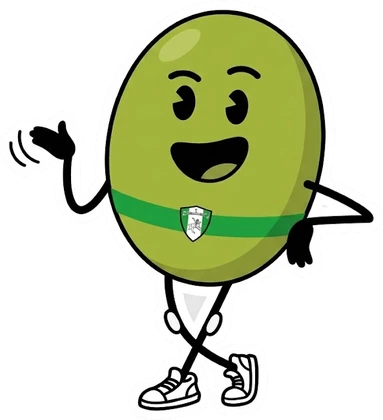
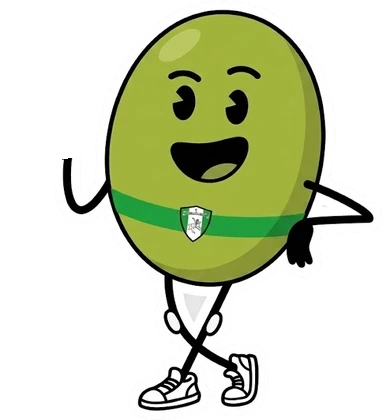
Mascota de «¡Apúntate!» desde Inscripciones y saludo animado; J5 masculina
- La mascota del botón aparece al llegar a «Inscripciones abiertas».
- La mano va en una capa aparte (assets/mascota-mano.webp) y hace un gesto
  de saludo/invitación cada pocos segundos (sin animación si el sistema
  pide reducir movimiento).
- J5 en Vigo: derrota 2-3.

Changed region(s): [[0.0, 0.2786, 0.201, 0.4024]]

diff --git a/index.html b/index.html
@@ -341,9 +341,14 @@ body{margin:0;background:#fff}
 .cva .fab{position:fixed;right:1.1rem;bottom:1.1rem;z-index:70;display:flex;align-items:center;gap:.6rem;flex-direction:row-reverse;transition:transform .25s}
 .cva .fab:hover{transform:translateY(-3px)}
 /* Mascota apoyada en «¡Apúntate!»: aparece al pasar la portada */
-.cva .masc-fab{position:absolute;right:calc(100% - 22px);bottom:-6px;width:auto;height:150px;max-width:none;pointer-events:none;
+.cva .masc-fab{position:absolute;right:calc(100% - 22px);bottom:-6px;height:150px;aspect-ratio:383/420;pointer-events:none;
   opacity:0;transform:translateY(24px);transition:opacity .45s ease,transform .45s cubic-bezier(.2,.8,.2,1);filter:drop-shadow(0 6px 10px rgba(0,0,0,.18))}
-.cva.past-hero .masc-fab{opacity:1;transform:none}
+.cva .masc-fab img{position:absolute;inset:0;width:100%;height:100%;max-width:none}
+.cva .masc-fab .mano{transform-origin:17.75% 38.6%}
+.cva.ver-masc .masc-fab{opacity:1;transform:none}
+.cva.ver-masc .masc-fab .mano{animation:saludo 3.2s ease-in-out .6s infinite}
+@keyframes saludo{0%,55%,100%{transform:rotate(0)}8%{transform:rotate(-16deg)}16%{transform:rotate(12deg)}24%{transform:rotate(-16deg)}32%{transform:rotate(12deg)}42%{transform:rotate(-6deg)}}
+@media(prefers-reduced-motion:reduce){.cva.ver-masc .masc-fab .mano{animation:none}}
 .cva .fab .lg{width:68px;height:68px;border-radius:50%;background:#fff;box-shadow:0 6px 22px rgba(0,0,0,.25);border:2px solid var(--green);display:grid;place-items:center;overflow:hidden;animation:bob 2.4s ease-in-out infinite}
 .cva .fab .lg img{width:100%;height:100%;object-fit:contain;padding:5px}
 .cva .fab .tx{background:var(--green);color:#fff;font-weight:800;font-size:1.1rem;padding:.7rem 1.2rem;border-radius:999px;box-shadow:0 6px 22px rgba(0,0,0,.22);transition:background .2s}
@@ -404,7 +409,7 @@ body{margin:0;background:#fff}
 <a href="#unete" class="fab" aria-label="Apúntate: ir a inscripción">
   <span class="lg"><img src="assets/escudo.png" alt=""></span>
   <span class="tx">¡Apúntate!</span>
-  <img class="masc-fab" src="assets/mascota-apuntate.webp" alt="" aria-hidden="true" width="383" height="420" decoding="async">
+  <span class="masc-fab" aria-hidden="true"><img src="assets/mascota-apuntate.webp" alt="" width="383" height="420" decoding="async"><img class="mano" src="assets/mascota-mano.webp" alt="" width="383" height="420" decoding="async"></span>
 </a>
 
 <header class="nav" id="nav">
@@ -752,7 +757,7 @@ var SEED={
    {j:2,f:'2026-10-10',h:'16:00',rival:'Bus Leader San Roque',  casa:false,sede:'PM El Batán',res:'G',marc:'3-1'},
    {j:3,f:'2026-10-17',h:'20:00',rival:'Indescar Zaragoza',     casa:false,sede:'CDM Siglo XXI',res:'P',marc:'0-3'},
    {j:4,f:'2026-10-24',h:'18:00',rival:'Textil Santanderina',   casa:true, sede:'Pabellón San Roque',res:'P',marc:'2-3'},
-   {j:5,f:'2026-10-31',h:'18:00',rival:'Club Vigo Voleibol',    casa:false,sede:'Pabellón Municipal de Coia'},
+   {j:5,f:'2026-10-31',h:'18:00',rival:'Club Vigo Voleibol',    casa:false,sede:'Pabellón Municipal de Coia',res:'P',marc:'2-3'},
    {j:6,f:'2026-11-07',h:'18:00',rival:'Barça Voleibol',        casa:true, sede:'Pabellón San Roque'},
    {j:7,f:'2026-11-14',h:'17:00',rival:'UBE L´Illa Grau',       casa:false,sede:'Pabellón Ciudad Deportiva'},
    {j:8,f:'2026-11-21',h:'18:00',rival:'Anaya Mayurqa Vóley Palma',casa:true,sede:'Pabellón San Roque'},
@@ -1083,11 +1088,11 @@ function scanImgs(){ $$('img').forEach(function(t){ if(t.getAttribute('src')&&t.
 scanImgs(); window.addEventListener('load',scanImgs);
 
 
-/* ---------- Mascota del botón «¡Apúntate!»: solo después de la portada ---------- */
+/* ---------- Mascota del botón «¡Apúntate!»: aparece al llegar a «Inscripciones abiertas» ---------- */
 (function(){
-  var root=document.getElementById('cva'),hero=document.getElementById('inicio'); if(!root||!hero) return;
-  if(!('IntersectionObserver' in window)){ root.classList.add('past-hero'); return; }
-  new IntersectionObserver(function(es){ es.forEach(function(x){ root.classList.toggle('past-hero',!x.isIntersecting); }); },{threshold:0}).observe(hero);
+  var root=document.getElementById('cva'),sec=document.getElementById('unete'); if(!root||!sec) return;
+  function check(){ root.classList.toggle('ver-masc',sec.getBoundingClientRect().top<innerHeight*.65); }
+  addEventListener('scroll',check,{passive:true}); addEventListener('resize',check); check();
 })();
 
 /* ---------- Aparición suave al hacer scroll ---------- */
